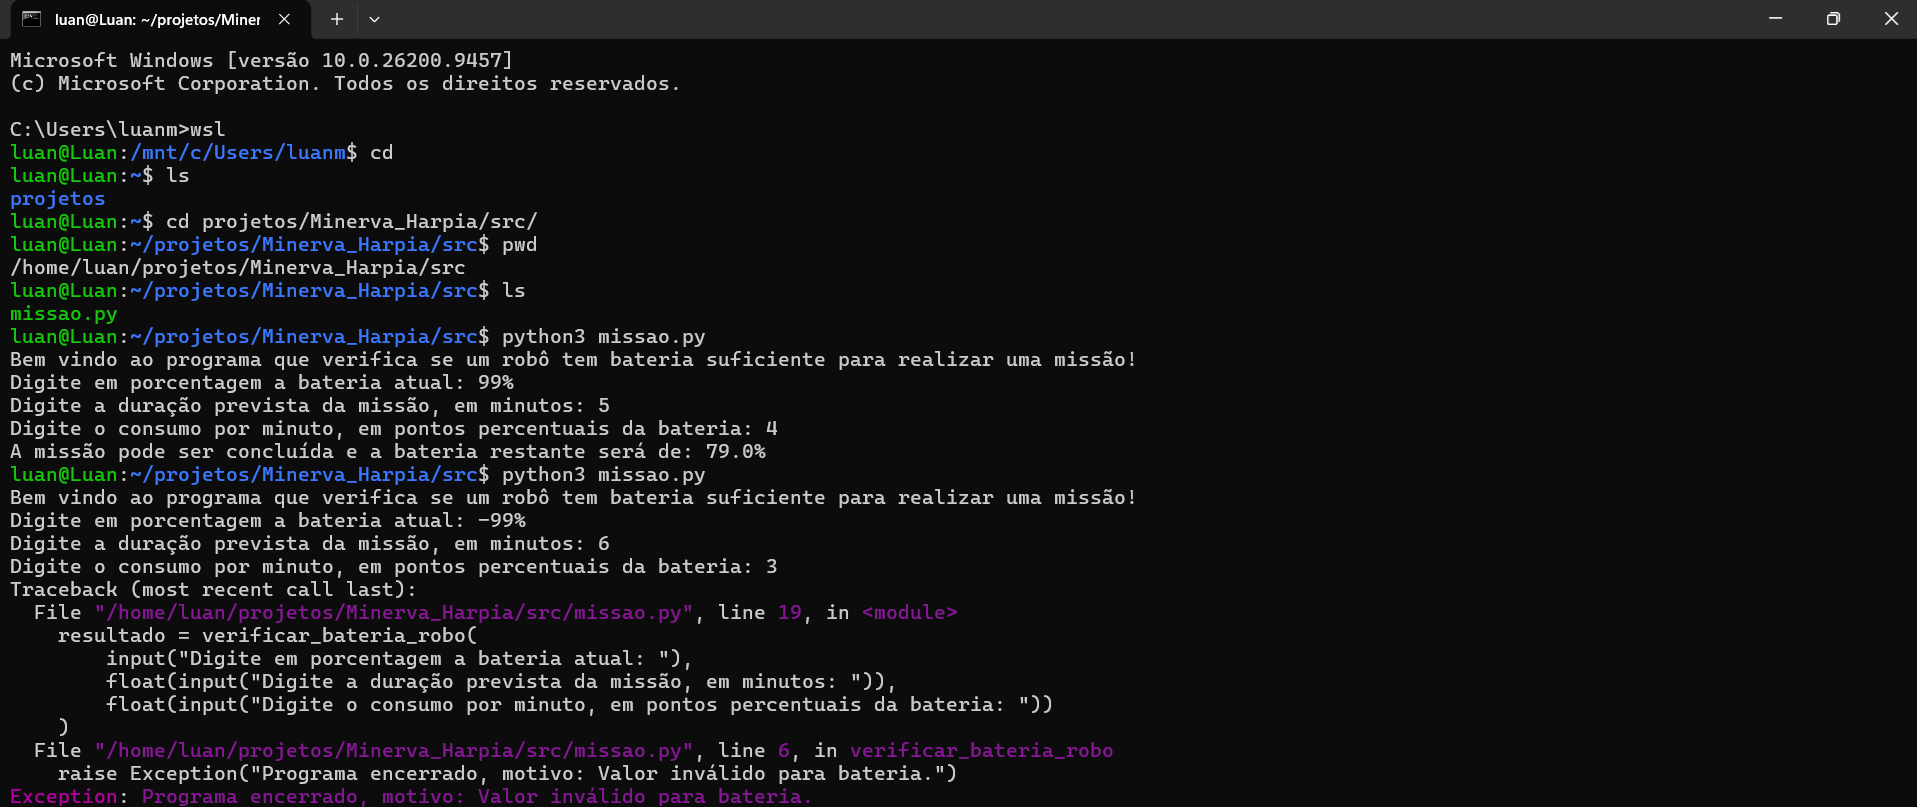
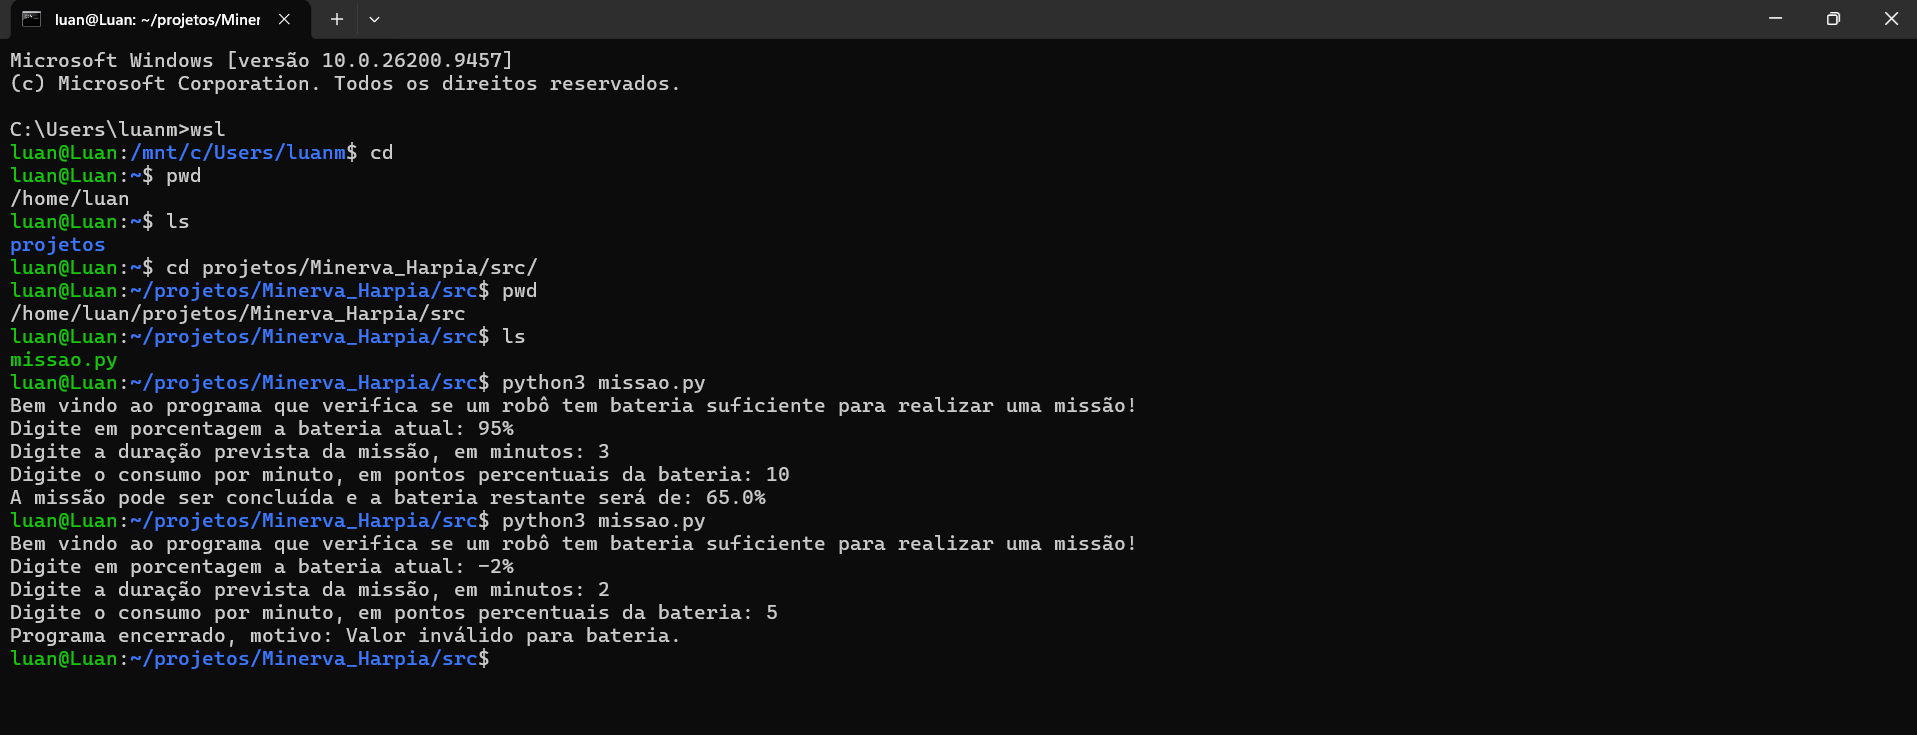
Commit correto, agora contendo o arquivo terminal.png atualizado na pasta imagens, e o arquivo README.md também atualizado.

Changed region(s): [[0.0, 0.1497, 0.5848, 1.0], [0.0, 0.0, 1.0, 0.1197]]

diff --git a/README.md b/README.md
@@ -26,13 +26,4 @@ Bem vindo ao programa que verifica se um robô tem bateria suficiente para reali
 Digite em porcentagem a bateria atual: -9%      <---- Digitado pelo usuário.
 Digite a duração prevista da missão, em minutos: 2      <---- Digitado pelo usuário.
 Digite o consumo por minuto, em pontos percentuais da bateria: 1      <---- Digitado pelo usuário.
-Traceback (most recent call last):
-  File ".../src/missao.py", line 19, in <module>
-    resultado = verificar_bateria_robo(
-        input("Digite em porcentagem a bateria atual: "),
-        float(input("Digite a duração prevista da missão, em minutos: ")),
-        float(input("Digite o consumo por minuto, em pontos percentuais da bateria: "))
-    )
-  File ".../src/missao.py", line 6, in verificar_bateria_robo
-    raise Exception("Programa encerrado, motivo: Valor inválido para bateria.")
-Exception: Programa encerrado, motivo: Valor inválido para bateria.      <---- Mensagem de erro.
+Programa encerrado, motivo: Valor inválido para bateria.      <---- Mensagem de erro.
